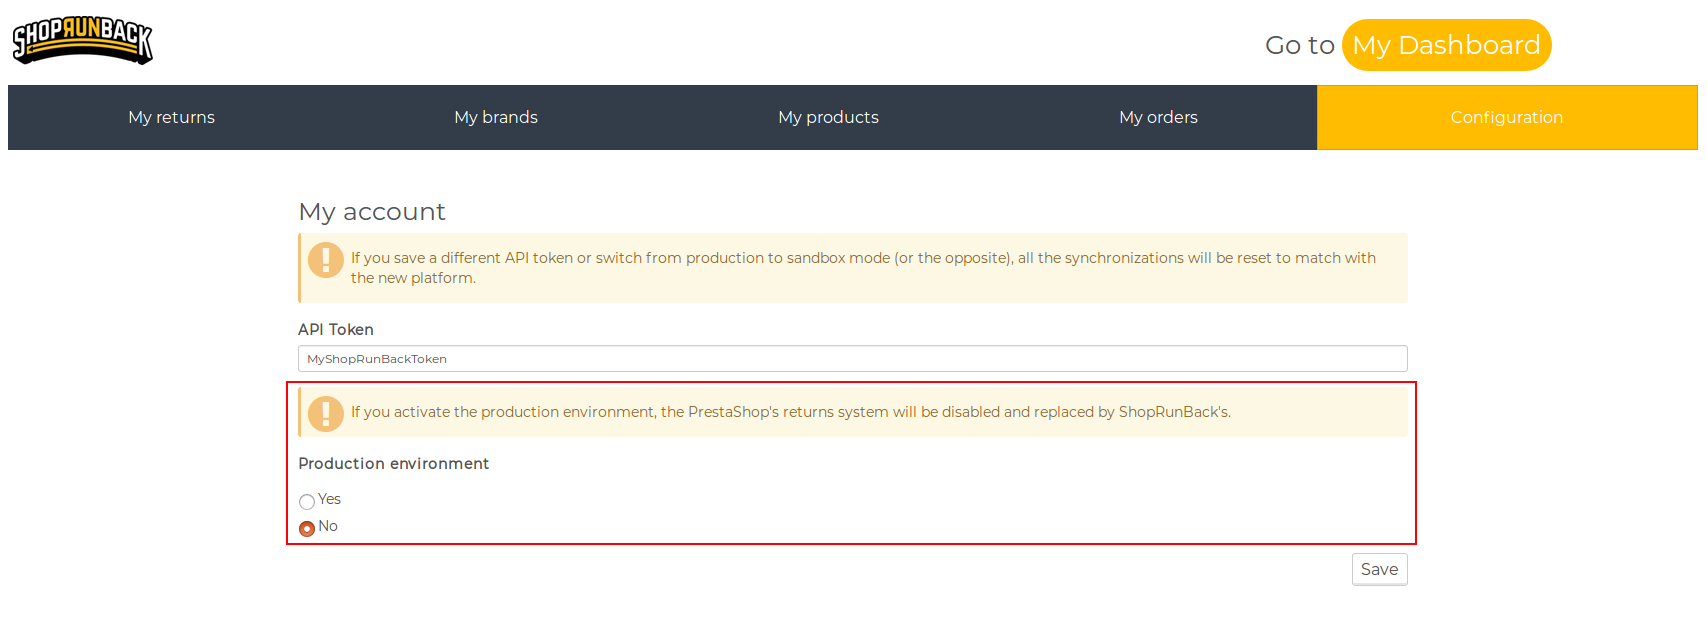
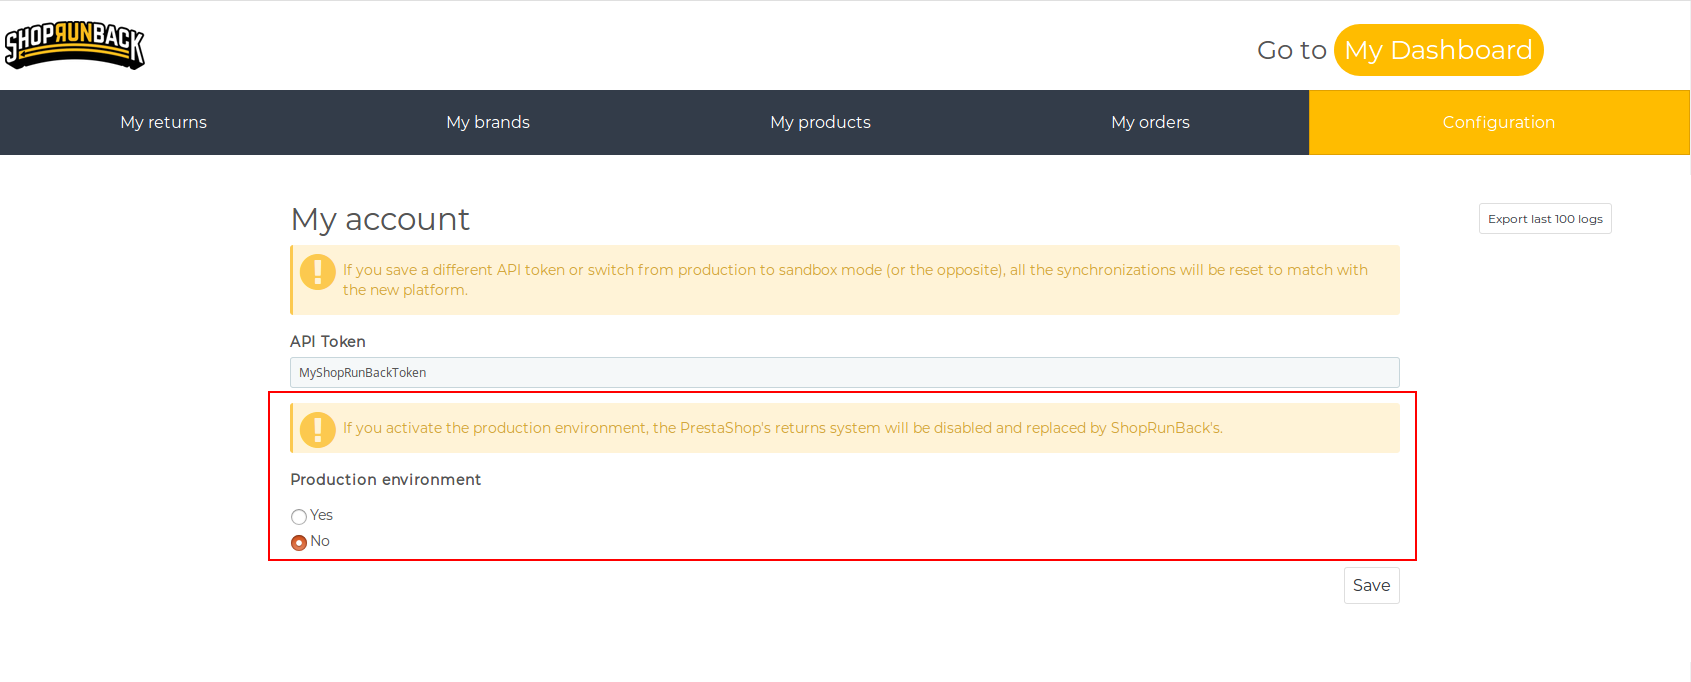
Update screenshots and add section for logs and how to contact devs

Changed region(s): [[0.1538, 0.3002, 0.8303, 0.9305], [0.0, 0.0, 1.0, 0.2401], [0.861, 0.3002, 0.9533, 0.3302]]

diff --git a/source/includes/prestashop/use.md b/source/includes/prestashop/use.md
@@ -50,6 +50,8 @@ Any customer can create a return request once an order is at least `Shipped`.
 
 They then have a button to create a return request on the details of the order.
 
+(The screenshots show the default PrestaShop template)
+
 ### 1.6 version
 
 ![Order detail in front-office in PrestaShop 1.6.0.9](http:../../images/prestashop/ps1.6.0.9_order-detail-return-request.png)
@@ -59,15 +61,3 @@ They then have a button to create a return request on the details of the order.
 ![Order detail in front-office in PrestaShop 1.7.2.5](http:../../images/prestashop/ps1.7.2.5_order-detail-return-request.png)
 
 This button redirects them to the ShopRunBack's form to fill their request.
-
-## How can I know if anything went wrong?
-
-We log most of the module's actions on your log system.
-
-To access it, just go to your back-office, and, in the left menu, go to `Advanced parameters` > `Logs`.
-
-| 1.6 | 1.7 |
-|-|-|
-| ![Logs tab in left-menu in PrestaShop 1.6.0.9](http:../../images/prestashop/ps1.6.0.9_left-menu-logs.png) | ![Logs tab in left-menu in PrestaShop 1.7.2.5](http:../../images/prestashop/ps1.7.2.5_left-menu-logs.png) |
-
-All our logs have their message beginning with `[ShopRunBack]` so you can filter them easily.

diff --git a/source/includes/prestashop/problem.md b/source/includes/prestashop/problem.md
@@ -1,0 +1,19 @@
+# I have a problem
+
+## Check what went wrong
+
+We log most of the module's actions on your log system.
+
+To access it, just go to your back-office, and, in the left menu, go to `Advanced parameters` > `Logs`.
+
+| 1.6 | 1.7 |
+|-|-|
+| ![Logs tab in left-menu in PrestaShop 1.6.0.9](http:../../images/prestashop/ps1.6.0.9_left-menu-logs.png) | ![Logs tab in left-menu in PrestaShop 1.7.2.5](http:../../images/prestashop/ps1.7.2.5_left-menu-logs.png) |
+
+All our logs have their message beginning with `[ShopRunBack]` so you can filter them easily.
+
+## Contact the developers
+
+If you meet a problem you cannot solve, please **export the last logs** on the configuration tab and **send a mail to tech_at_shoprunback.com**
+
+![Export logs in the ShopRunBack's configuration tab](http:../../images/prestashop/ps_srb-configuration-export-logs.png)

diff --git a/source/includes/prestashop/configure.md b/source/includes/prestashop/configure.md
@@ -40,7 +40,7 @@ After configuring your account, we recommend you to directly synchronize all you
 
 There are 2 modes:
 
-- Sandbox: It is a **test** environment. The data on this environment is reset every monday.
-- Production: It is where your customers' return requests are made. **This is real data!**
+- **Sandbox**: It is a **test** environment. The data on this environment is **reset every monday**.
+- **Production**: It is where your customers' return requests are made. **This is real data!**
 
 ![Where to find ShopRunBack in the left menu](http:../../images/prestashop/ps_srb-configuration-environments.png)

diff --git a/source/prestashop.html.md b/source/prestashop.html.md
@@ -14,6 +14,7 @@ includes:
   - prestashop/install
   - prestashop/configure
   - prestashop/use
+  - prestashop/problem
 
 search: false
 ---
